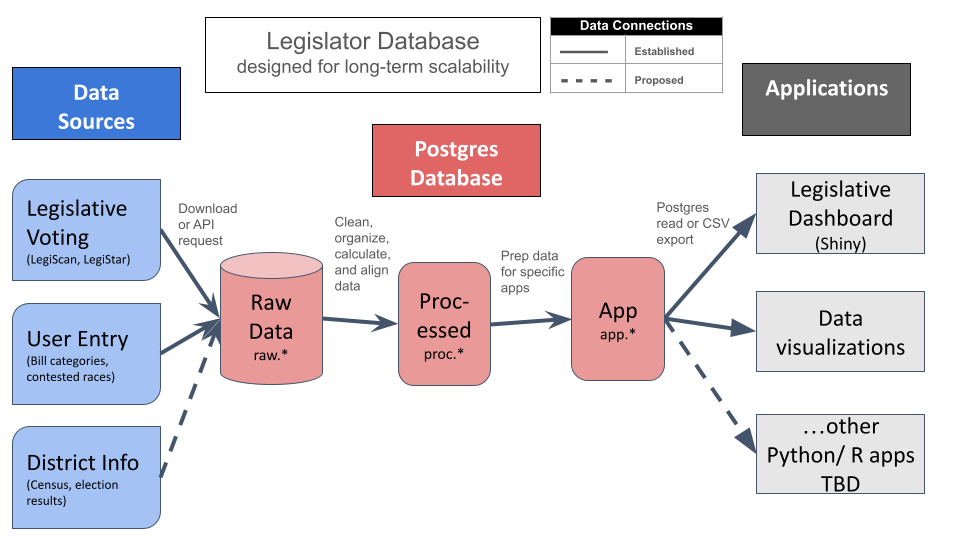
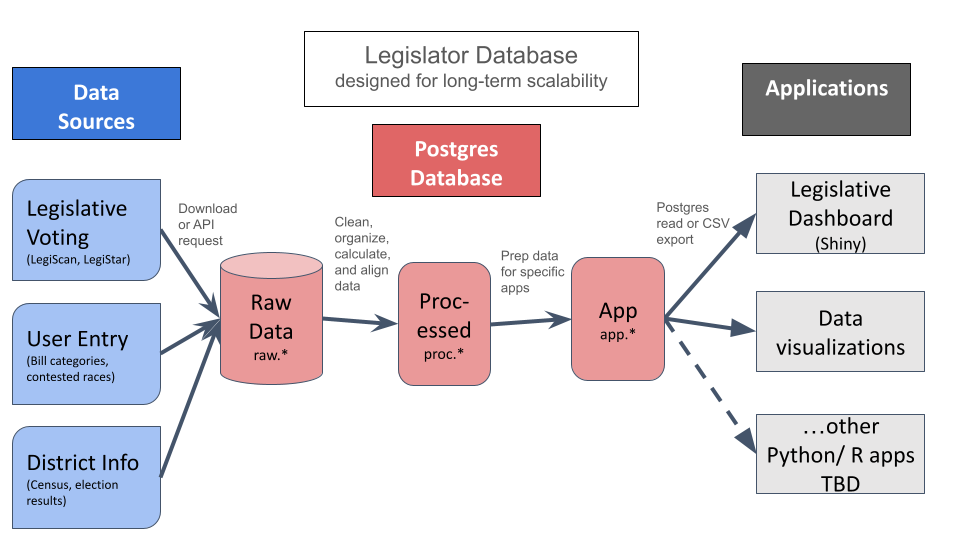
update p_districts to include ACS, CVAP, and electorate partisan leaning
electorate partisan leaning based on 2016-2020 governor and presidential election results

diff --git a/README.md b/README.md
@@ -14,6 +14,7 @@ My focus here is adapting [apantazi's R-scripted data pipeline](https://github.c
 * have greater control over the presentation of data including sorting, hover text formatting, and filtering
 
 7/5/24 updates
+* integrates Census and election results data
 * integrates user-entered data on bill categorization and flagging contested electoral districts
 
 ## Overview of the database
@@ -49,17 +50,20 @@ The raw data layer stores data parsed from the original JSON files but otherwise
 |t_roll_calls|roll_call_id|One record per roll call. Includes summary data on roll calls (e.g. how many voted yea vs. nay, etc.)|
 |t_legislator_votes|person_id,<br>roll_call_id|One record per legislator per roll call vote. Including data on how the legislator voted (yea, nay, absent, no vote).|
 
+### raw-daves schema ###
+State Congressional district data downloaded from [Dave's Redistricting](https://davesredistricting.org/). This includes American Community Survey (2020), Citizen Voting Age Population (2022), and metrics of partisan preference based on state governor and Presidential election results from 2016 to 2020.
+|Table|Primary Key|Description and Notes|
+|---|---|---|
+|t_districts_house|district_id|One record per house district (2022) from .|
+|t_districts_senate|district_id,<br>session|Because legislators can change roles (i.e. move from the House to the Senate), one record is tracked per legislator per legislative session.|
+
+
 ### user-entry schema ###
 This schema includes a limited amount of user-entered data as a prototype. This data generation should be automated whenever that's more efficient (e.g. by bill committee assignments/ AI text search, election race data).
 |Table|Primary Key|Description and Notes|
 |---|---|---|
 |[user_bill_categories](https://docs.google.com/spreadsheets/d/1ivNJS9F6TyBjTr_D3OmUKxN0YCEM9ugLbJRteID6Q24/edit?usp=drive_link)|bill_number,<br>session_biennium,<br>bill_category|User assignment of bills to categories. This may be automated, use AI, etc. in future iterations.|
 |[user_incumbents_challenged](https://docs.google.com/spreadsheets/d/1woSZBU5bOfTGFKtuaYg2xT8jCo314RVlSpMrSARWl1c/edit?usp=drive_link)|party,<br>role,<br>district_number,<br>year|Tracks electoral districts where incumbents have primary challengers.|
-
-### Other raw data schema to be developed
-* raw_demographics - block-level census data from Census and American Community Survey
-* raw_election_results - election results by district
-* raw_legistar - legislative voting data acquired from LegiStar API
 
 <br>
 
@@ -69,12 +73,12 @@ The processed layer tracks data transformed from LegiScan, but is intended to ev
 |Table|Primary Key|Origin Data Sources|Notes|
 |---|---|---|---|
 |p_bills|bill_id|LegiScan (state)|Cleans up and aligns bill data from LegiScan and LegiStar|
-|p_districts|district_id,<br>year|CURRENT- User-entered flag for contested electoral districts<br>PROPOSED- Census demographics, electoral results, etc.|One record per legislative district (Senate, House, City Council, etc.)|
+|p_districts|district_id,<br>year|Dave's Redistricting and user-entered data on incumbent primary challenge status |One record per legislative district (Senate, House, City Council, etc.)|
+|p_legislators|person_id||Summary info about legislators, which arbitrarily takes the first record for each.|
 |p_legislator_sessions|person_id,<br>session_year|LegiScan (state)|Session_year is part of key because legislators can change roles (i.e. move from the House to the Senate) over time|
-|p_roll_calls|roll_call_id|LegiScan (state)|Includes summary data on roll calls (e.g. how many voted yea vs. nay, etc.)|
 |p_legislator_votes|person_id,<br>roll_call_id|LegiScan (state)|Includes data on how the legislator voted (yea, nay, absent, no vote) and calculated partisan metrics (with their party, against their party, against both parties, etc.).|
 |p_leg_votes_partisan|person_id,<br>roll_call_id|LegiScan (state)|Legislator votes filtered for only yea and nay votes with additional partisan metrics.|
-|p_legislators|person_id|Summary info about legislators, which arbitrarily takes the first record for each.|
+|p_roll_calls|roll_call_id|LegiScan (state)|Includes summary data on roll calls (e.g. how many voted yea vs. nay, etc.)|
 |p_sessions|session_id|LegiScan (state)|Info about each legislative session, e.g. session name and session biennium.|
 |jct_bill_categories|bill_id, category|Manual data entry (for now)|Includes data on how the legislator voted (aye, nay, absent, no vote) and calculated partisan metrics (with their party, against their party, against both parties, etc.).|
 
